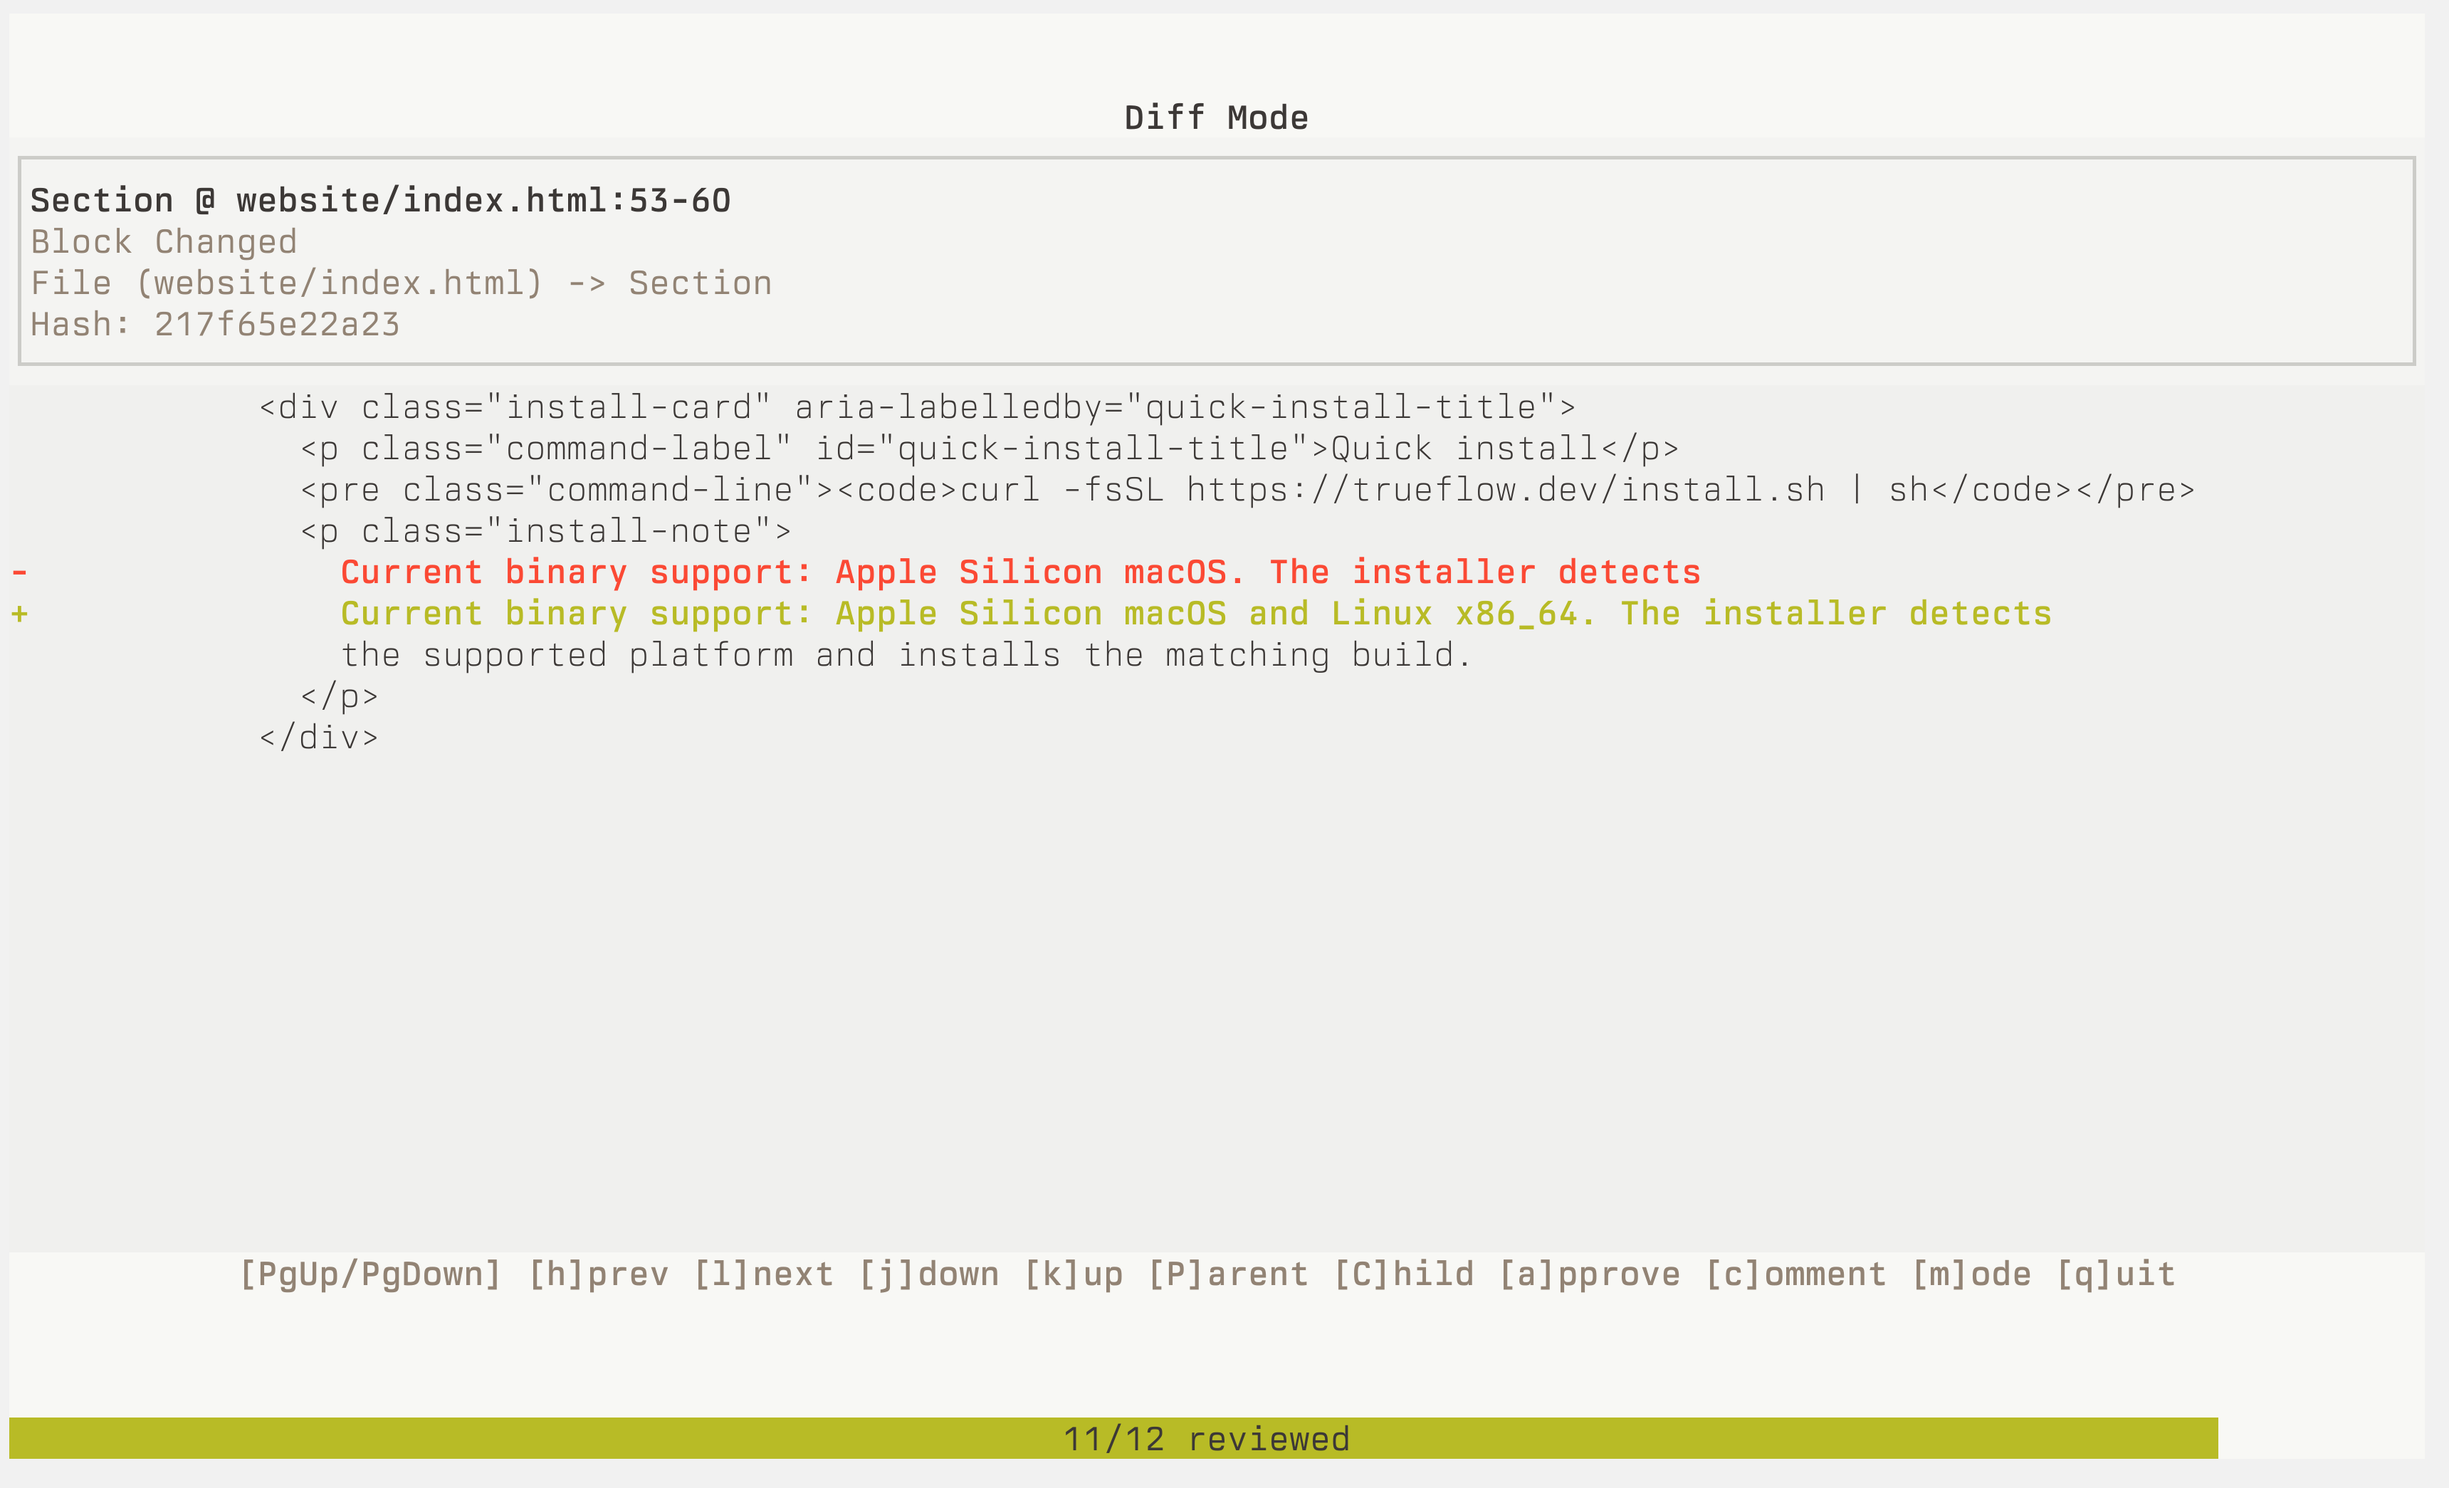
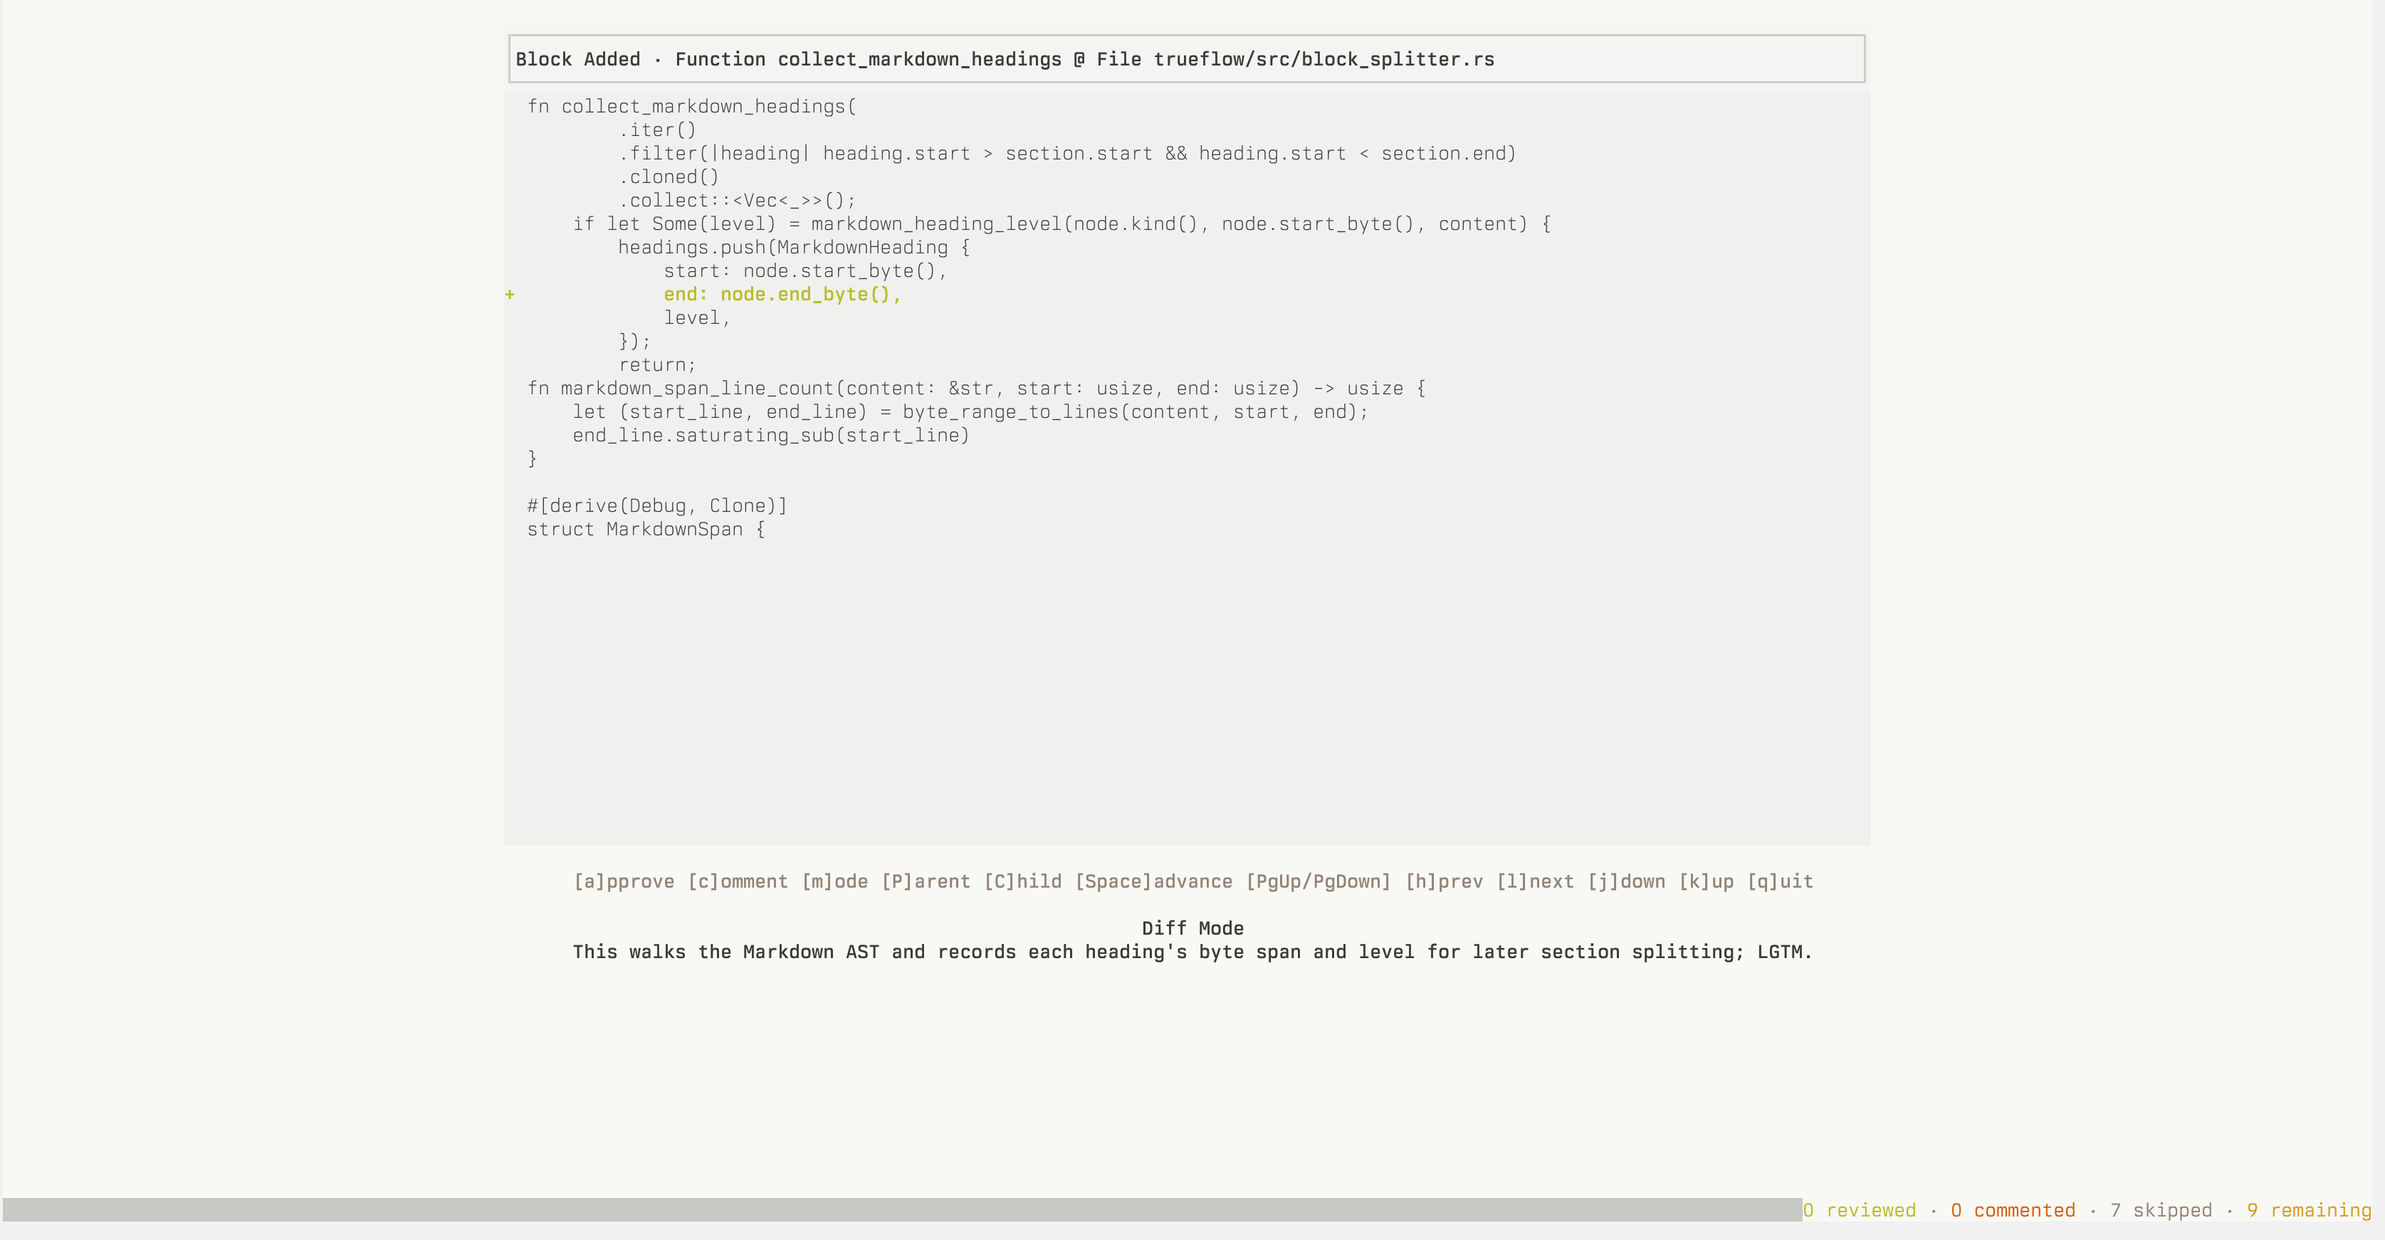
Mention AI hints on website

diff --git a/website/index.html b/website/index.html
@@ -67,6 +67,8 @@
           <ul class="hero-notes" aria-label="Key product points">
             <li>Content-based review for existing code and whole repos</li>
             <li>Diff review for pull requests and local changes</li>
+            <li>Optional AI hints for drafting review comments, explicit opt-in only</li>
+            <li>GitHub PR feedback support when you want local review context in pull requests</li>
             <li>Review records that survive refactors and file motion</li>
           </ul>
           <p class="install-note">
@@ -107,8 +109,9 @@
           <article class="benefit-card">
             <h3>Use the workflow that fits your loop</h3>
             <p>
-              Move through a calm TUI or use the CLI / automation layer with
-              machine-readable output.
+              Move through a calm TUI with diff/source views and optional,
+              explicit opt-in AI hints for comment drafting, or use the CLI /
+              automation layer with machine-readable output.
             </p>
           </article>
 

diff --git a/trueflow/tests/website_landing_page.rs b/trueflow/tests/website_landing_page.rs
@@ -93,6 +93,21 @@ fn website_landing_page_has_install_command_above_the_fold() -> Result<()> {
     );
     assert_contains(
         &html,
+        "Optional AI hints for drafting review comments, explicit opt-in only",
+        "landing page ai hint hero note",
+    );
+    assert_contains(
+        &html,
+        "GitHub PR feedback support when you want local review context in pull requests",
+        "landing page github hero note",
+    );
+    assert_contains(
+        &html,
+        "explicit opt-in AI hints for comment drafting",
+        "landing page ai workflow copy",
+    );
+    assert_contains(
+        &html,
         "Keep review state attached to content",
         "benefit section content",
     );
